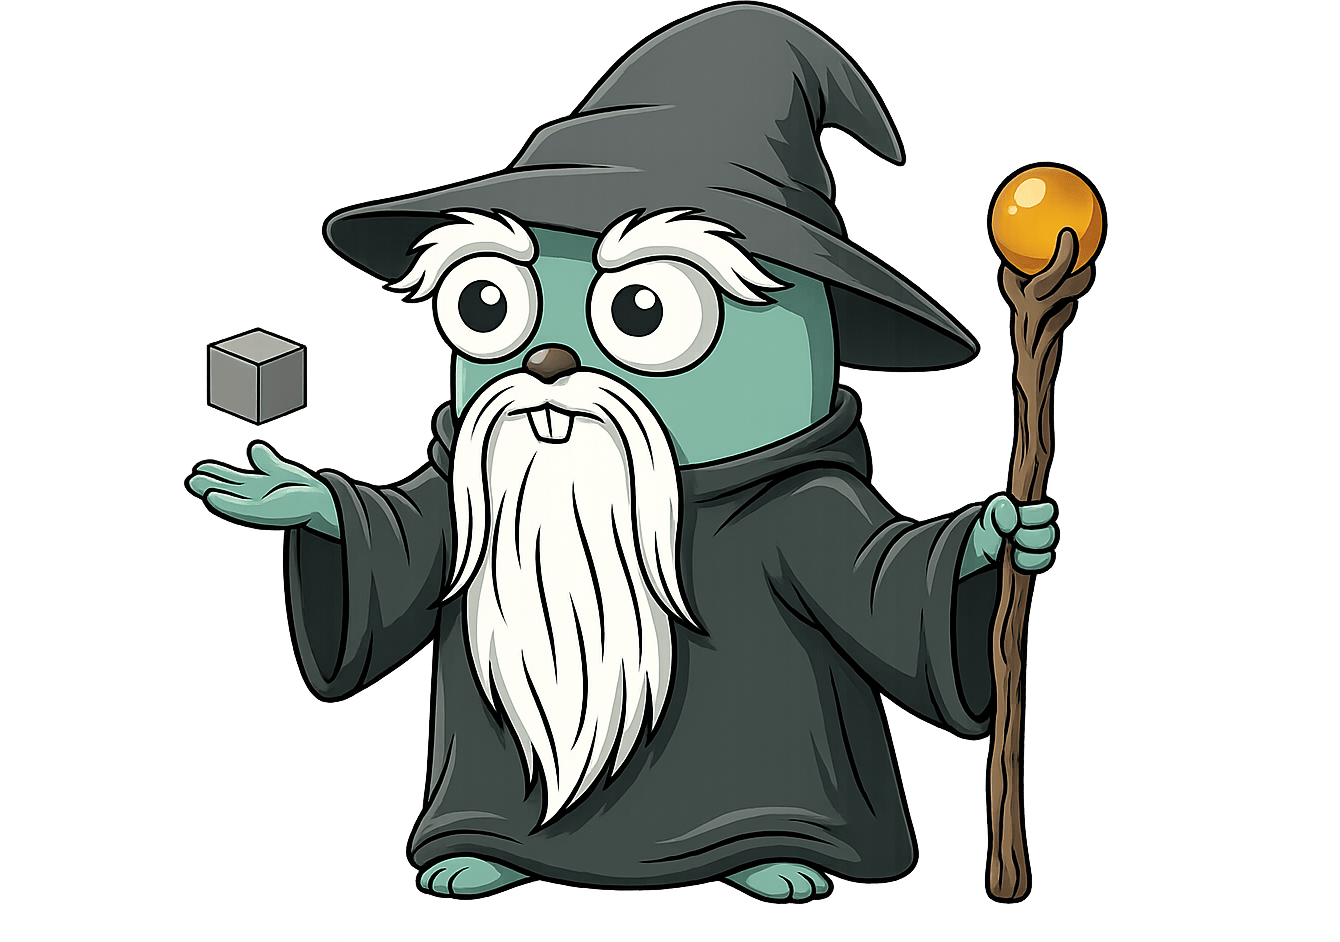
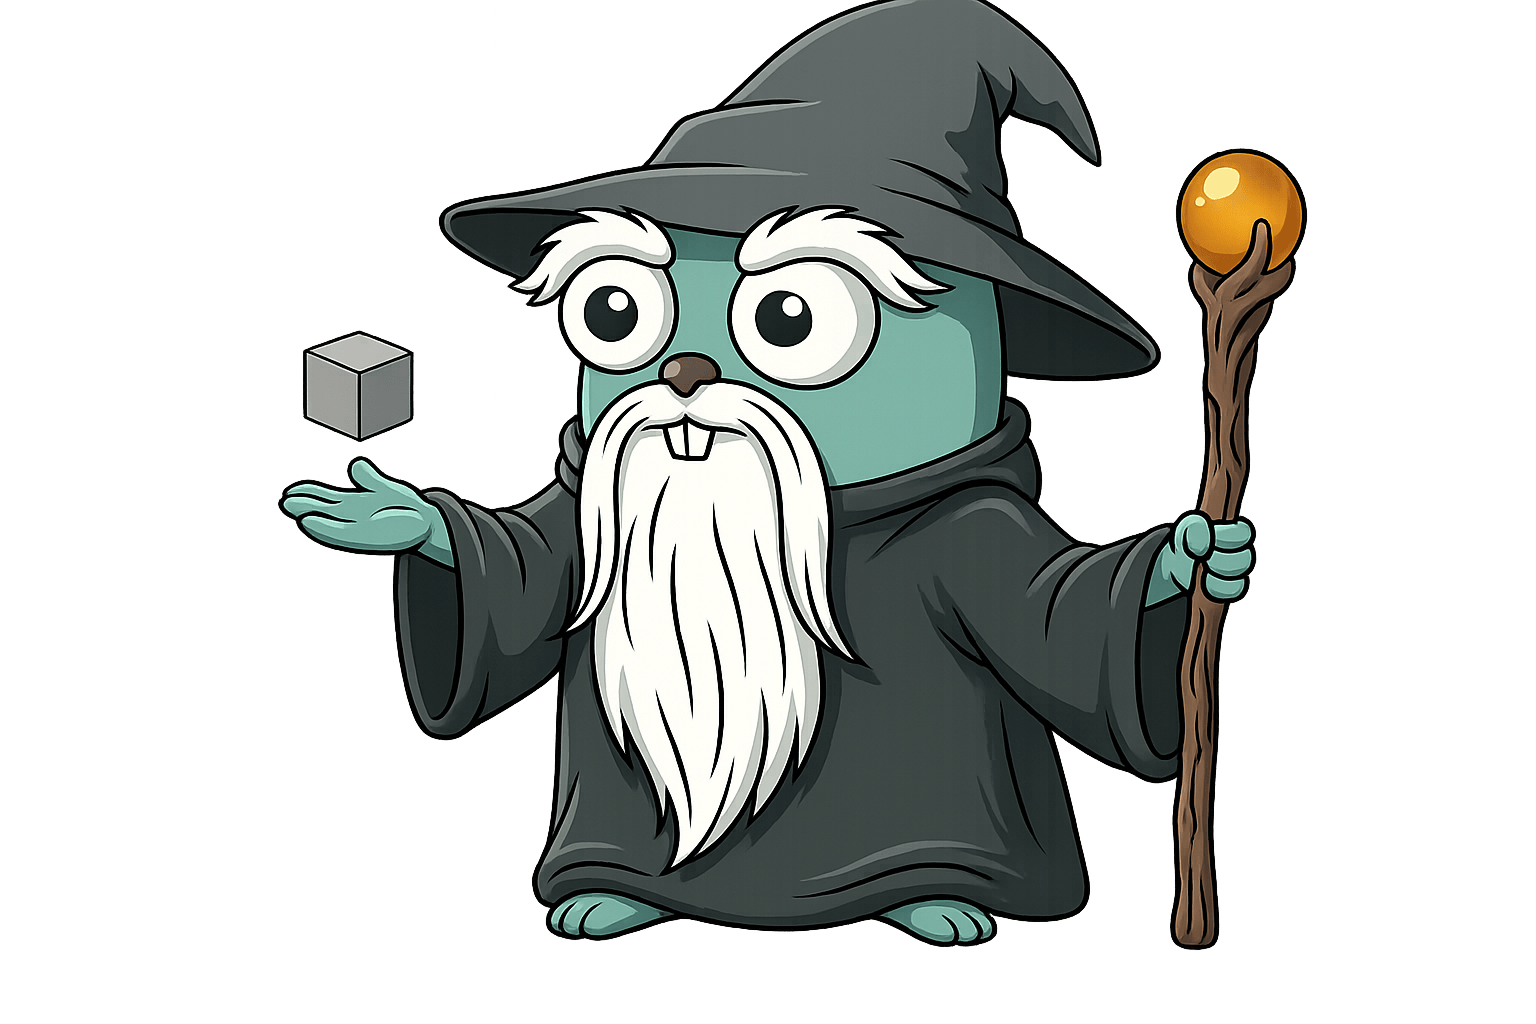
use the full-hat gopher image; sync source and generated copies; fix the embedded aspect ratio

diff --git a/website/gen/index.html b/website/gen/index.html
@@ -68,7 +68,7 @@
 <p align="center">
   <picture>
     <source srcset="./assets/gopher.webp" type="image/webp">
-    <img alt="magus gopher mascot" width="400" height="300" fetchpriority="high" src="./assets/gopher.png">
+    <img alt="magus gopher mascot" width="400" height="267" fetchpriority="high" src="./assets/gopher.png">
   </picture>
 </p>
 <!-- Coverage is generated locally by `magus run coverage` (Go toolchain only, no third-party service); regenerate and commit to refresh. -->

diff --git a/README.md b/README.md
@@ -9,7 +9,7 @@ tags: [magus, readme, task orchestrator, build system, monorepo, polyglot, buzz,
 <p align="center">
   <picture>
     <source srcset="./assets/gopher.webp" type="image/webp">
-    <img alt="magus gopher mascot" width="400" height="300" fetchpriority="high" src="./assets/gopher.png">
+    <img alt="magus gopher mascot" width="400" height="267" fetchpriority="high" src="./assets/gopher.png">
   </picture>
 </p>
 

diff --git a/website/gen/index.md b/website/gen/index.md
@@ -9,7 +9,7 @@ tags: [magus, readme, task orchestrator, build system, monorepo, polyglot, buzz,
 <p align="center">
   <picture>
     <source srcset="./assets/gopher.webp" type="image/webp">
-    <img alt="magus gopher mascot" width="400" height="300" fetchpriority="high" src="./assets/gopher.png">
+    <img alt="magus gopher mascot" width="400" height="267" fetchpriority="high" src="./assets/gopher.png">
   </picture>
 </p>
 